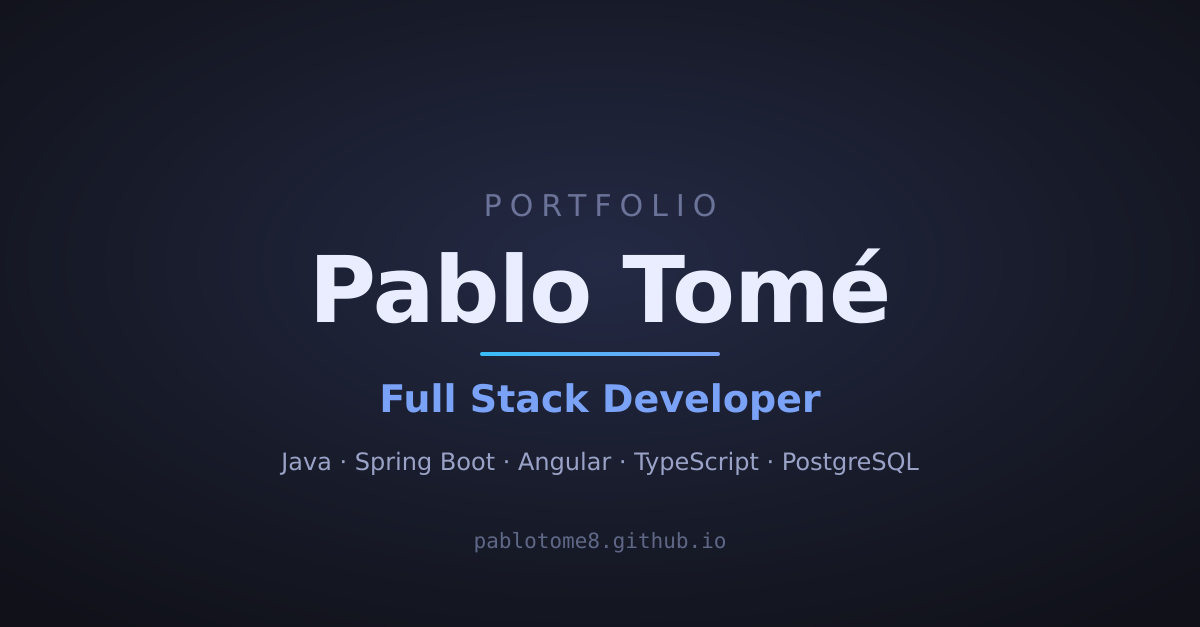
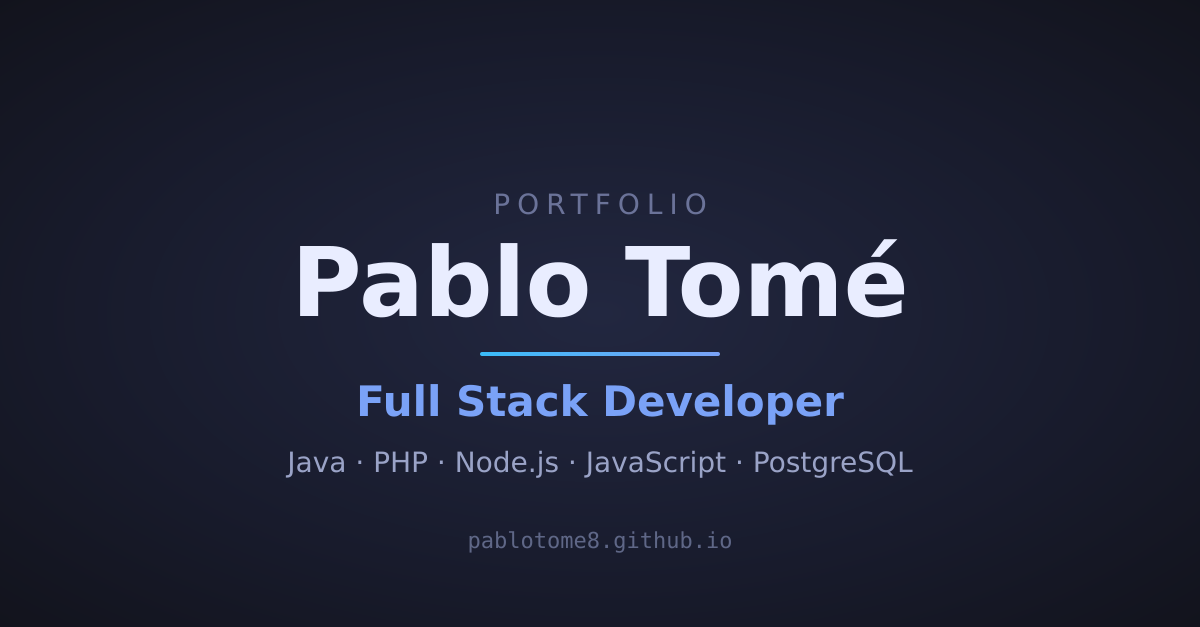
refactor(portfolio): align stack with current profile

diff --git a/index.html b/index.html
@@ -12,7 +12,7 @@
     <link rel="stylesheet" href="styles.css">
     <meta property="og:title" content="Pablo Tomé | Portafolio">
     <meta property="og:type" content="website">
-    <meta property="og:description" content="Desarrollador Full Stack | Java, Spring Boot, Angular, PostgreSQL">
+    <meta property="og:description" content="Desarrollador Full Stack | Java, PHP, Node.js, JavaScript, PostgreSQL">
     <meta property="og:url" content="https://pablotome8.github.io/">
     <meta property="og:image" content="https://pablotome8.github.io/images/og-card.png">
     <meta property="og:image:type" content="image/png">
@@ -27,7 +27,7 @@
         <nav>
             <ul>
                 <li><a href="#hero-section" class="nav-link">Inicio</a></li>
-                <li><a href="#about" class="nav-link">Sobre mi</a></li>
+                <li><a href="#about" class="nav-link">Sobre mí</a></li>
                 <li><a href="#projects" class="nav-link">Proyectos</a></li>
                 <li><a href="#contact" class="nav-link">Contacto</a></li>
             </ul>
@@ -38,7 +38,7 @@
         <section id="hero-section">
             <div class="hero-content">
                 <h1>Pablo Tomé <span class="text-gradient">Dev</span></h1>
-                <p class="hero-subtitle">Desarrollador Full Stack | Java • Spring Boot • Angular • PostgreSQL</p>
+                <p class="hero-subtitle">Desarrollador Full Stack | Java • PHP • Node.js • JavaScript • PostgreSQL</p>
                 <a href="#projects" class="btn-primary">Mis proyectos</a>
             </div>
         </section>
@@ -47,8 +47,8 @@
             <div class="about-container">
                 <div class="about-text">
                     <h2>Sobre mí</h2>
-                    <p>Desarrollador de software y estudiante de segundo año de <span>Desarrollo de Aplicaciones Web (DAW)</span> en Oviedo. Mi especialización abarca la arquitectura de sistemas backend robustos en <strong>Java con Spring Boot</strong> y <strong>PHP</strong>, el desarrollo frontend reactivo con <strong>Angular y TypeScript</strong> (Signals, Standalone Components), y el diseño y optimización de bases de datos relacionales en <strong>PostgreSQL</strong> sobre contenedores Docker.</p>
-                    <p>Apasionado por el análisis y tratamiento de datos mediante <strong>Python (NumPy, Pandas)</strong>, la automatización CI/CD y las buenas prácticas de ingeniería de software: arquitectura limpia, pruebas de API y calidad continua.</p>
+                    <p>Desarrollador de software y estudiante de segundo año de <span>Desarrollo de Aplicaciones Web (DAW)</span> en Oviedo. Mi enfoque abarca el desarrollo backend en <strong>Java</strong>, <strong>PHP</strong> y <strong>Node.js con Express</strong>, la construcción de interfaces web semánticas y accesibles con <strong>HTML5, CSS3, Sass y JavaScript</strong>, y el diseño de bases de datos relacionales en <strong>PostgreSQL</strong> y NoSQL en <strong>MongoDB</strong> sobre contenedores Docker.</p>
+                    <p>Complemento mi perfil con el análisis y tratamiento de datos mediante <strong>Python (NumPy, Pandas)</strong>, la automatización CI/CD con <strong>GitHub Actions</strong> y buenas prácticas de ingeniería de software: arquitectura limpia, pruebas de API y calidad continua.</p>
                 </div>
                 <div class="about-skills">
                     <h3>Mi Stack Técnico</h3>
@@ -58,21 +58,29 @@
                             <span class="skill-name">Java</span>
                         </li>
                         <li class="skill-card">
-                            <img src="images/logoSpringBoot.png" alt="logo de spring boot" class="skill-icon">
-                            <span class="skill-name">Spring Boot</span>
+                            <img src="images/logoPhp.svg" alt="logo de php" class="skill-icon">
+                            <span class="skill-name">PHP</span>
                         </li>
                         <li class="skill-card">
-                            <img src="images/logoAngular.svg" alt="logo de angular" class="skill-icon">
-                            <span class="skill-name">Angular</span>
-                            <span class="badge">Signals</span>
+                            <img src="images/logoNodeJs.svg" alt="logo de node.js" class="skill-icon">
+                            <span class="skill-name">Node.js</span>
+                            <span class="badge">Express</span>
                         </li>
                         <li class="skill-card">
-                            <img src="images/logoTypeScript.svg" alt="logo de typescript" class="skill-icon">
-                            <span class="skill-name">TypeScript</span>
+                            <img src="images/logoJavaScript.svg" alt="logo de javascript" class="skill-icon">
+                            <span class="skill-name">JavaScript</span>
+                        </li>
+                        <li class="skill-card">
+                            <img src="images/logoSass.svg" alt="logo de sass" class="skill-icon">
+                            <span class="skill-name">Sass</span>
                         </li>
                         <li class="skill-card">
                             <img src="images/logoPostgres.svg" alt="logo de postgresql" class="skill-icon">
                             <span class="skill-name">PostgreSQL</span>
+                        </li>
+                        <li class="skill-card">
+                            <img src="images/logoMongoDB.svg" alt="logo de mongodb" class="skill-icon">
+                            <span class="skill-name">MongoDB</span>
                         </li>
                         <li class="skill-card">
                             <img src="images/logoSqL.png" alt="logo de sql" class="skill-icon">
@@ -90,10 +98,6 @@
                         <li class="skill-card">
                             <img src="images/logoPandas.svg" alt="logo de pandas" class="skill-icon">
                             <span class="skill-name">Pandas</span>
-                        </li>
-                        <li class="skill-card">
-                            <img src="images/logoPhp.svg" alt="logo de php" class="skill-icon">
-                            <span class="skill-name">PHP</span>
                         </li>
                         <li class="skill-card">
                             <img src="images/logoDocker.svg" alt="logo de docker" class="skill-icon">
